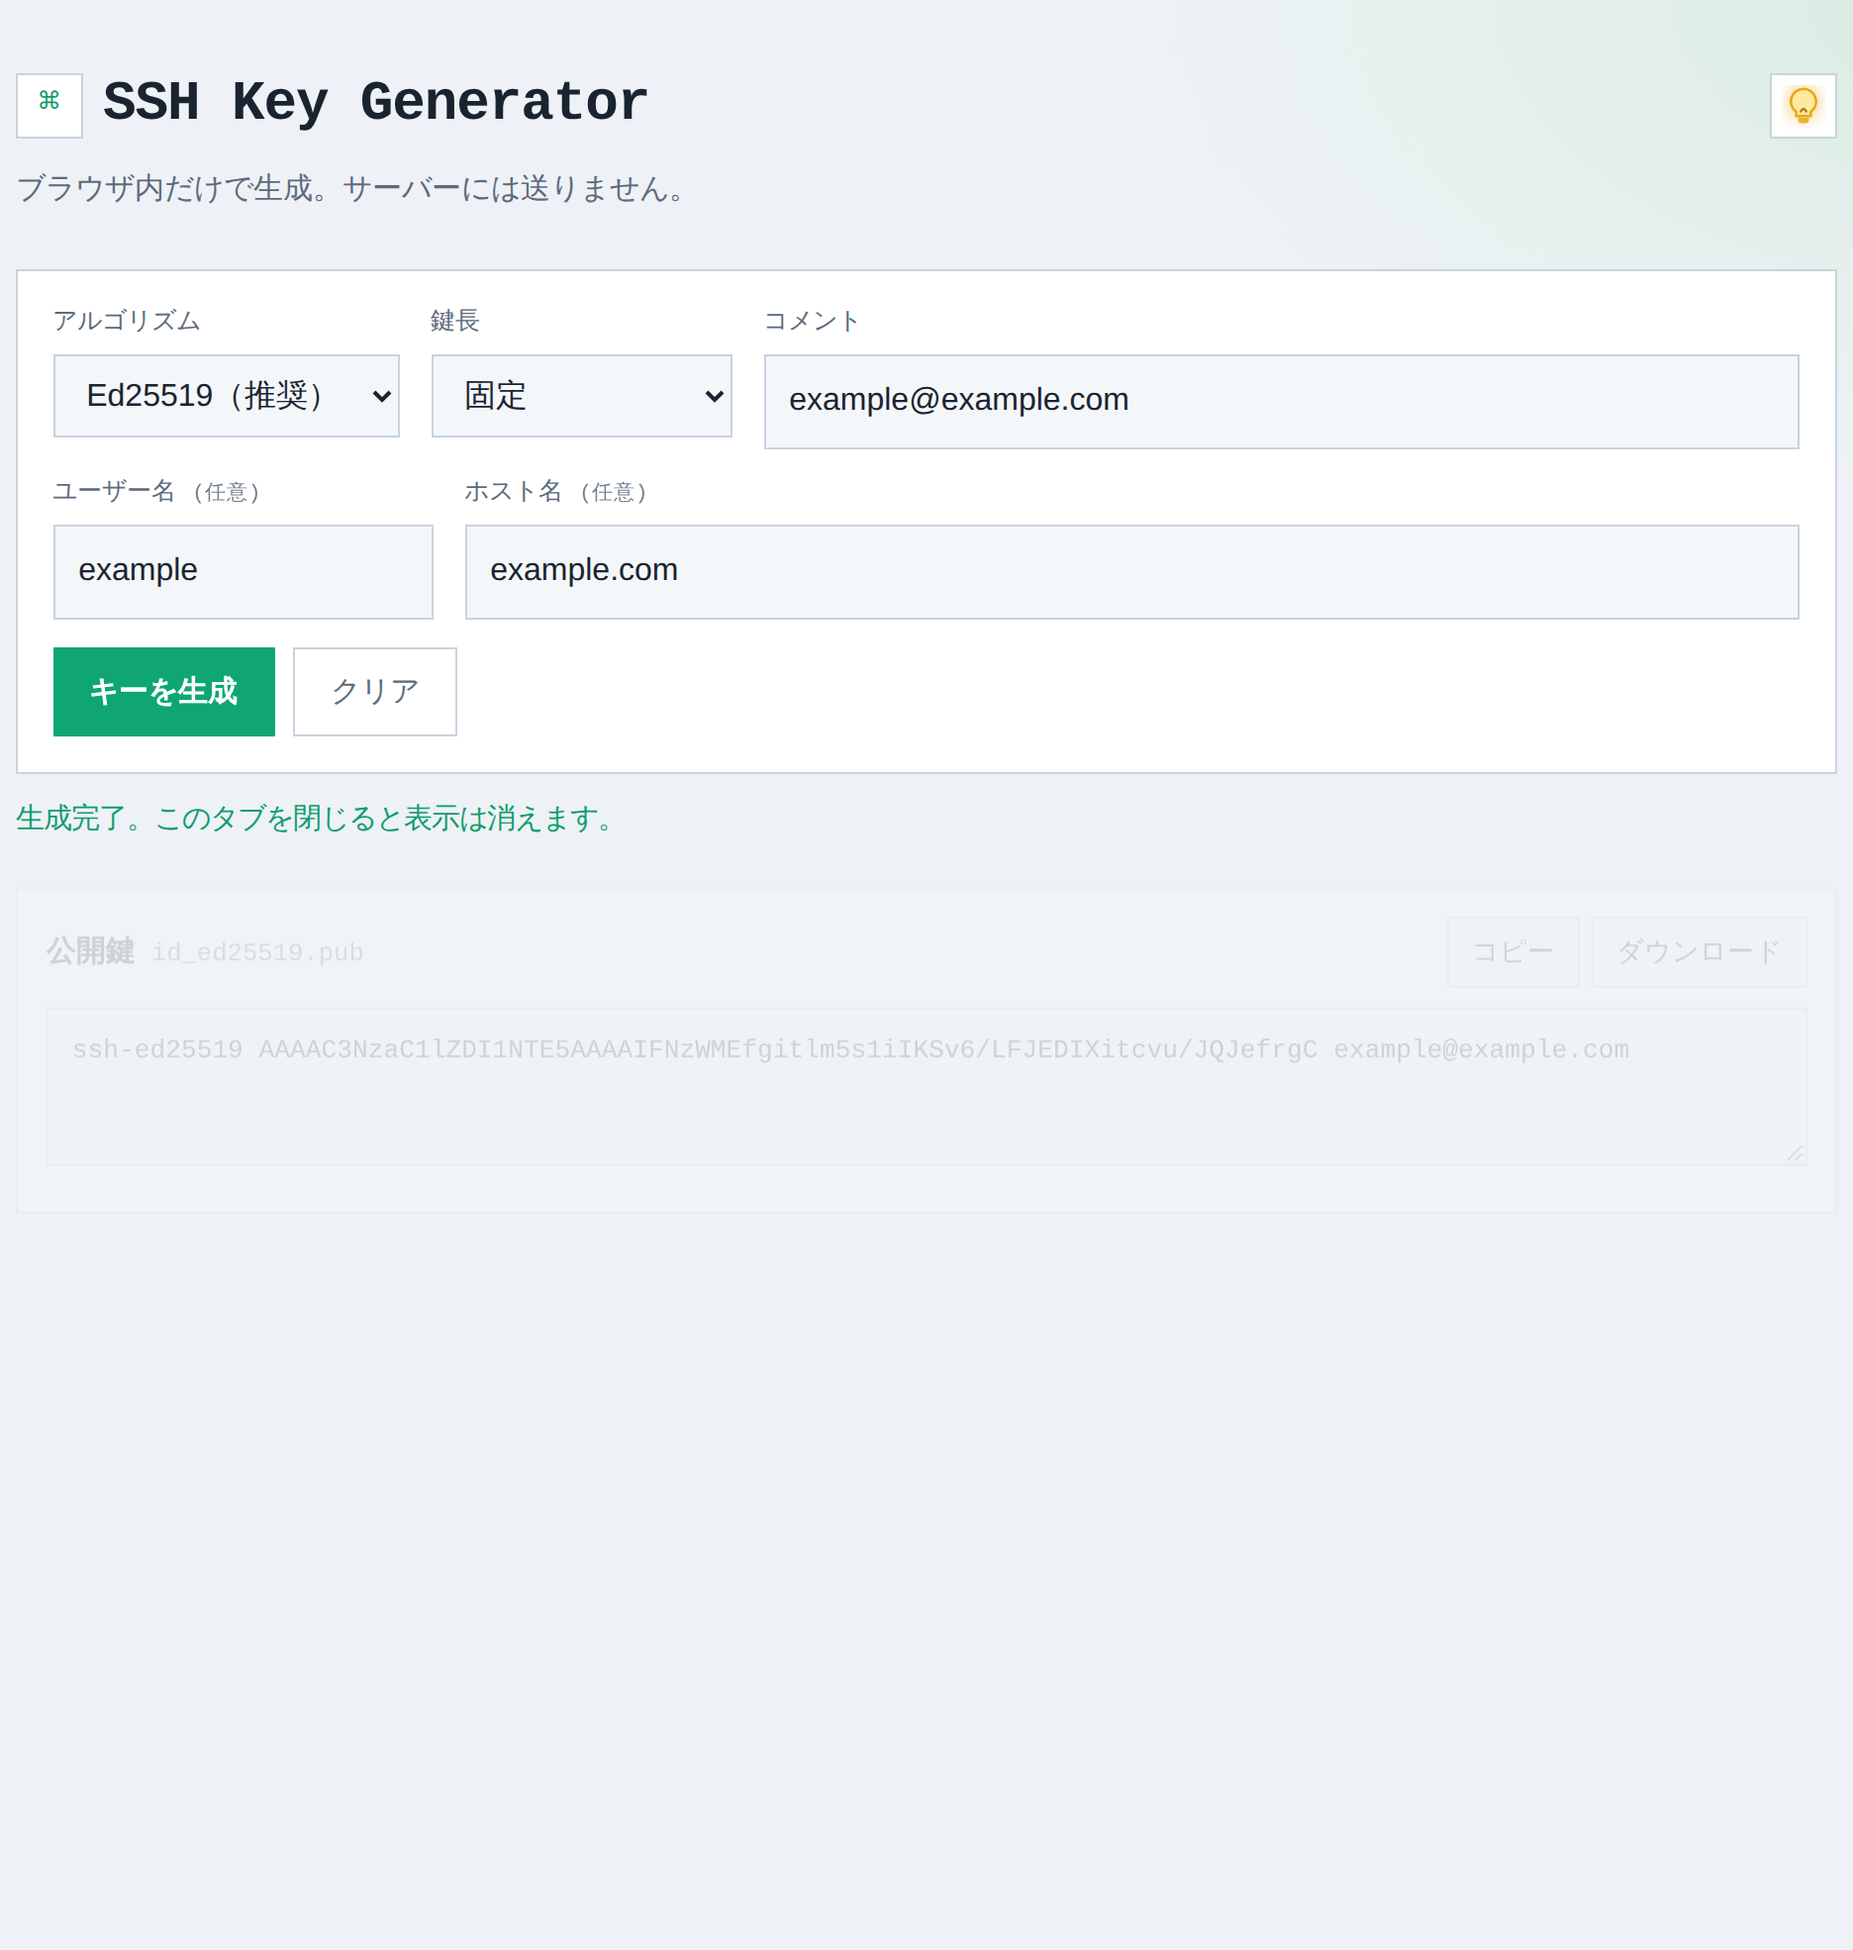
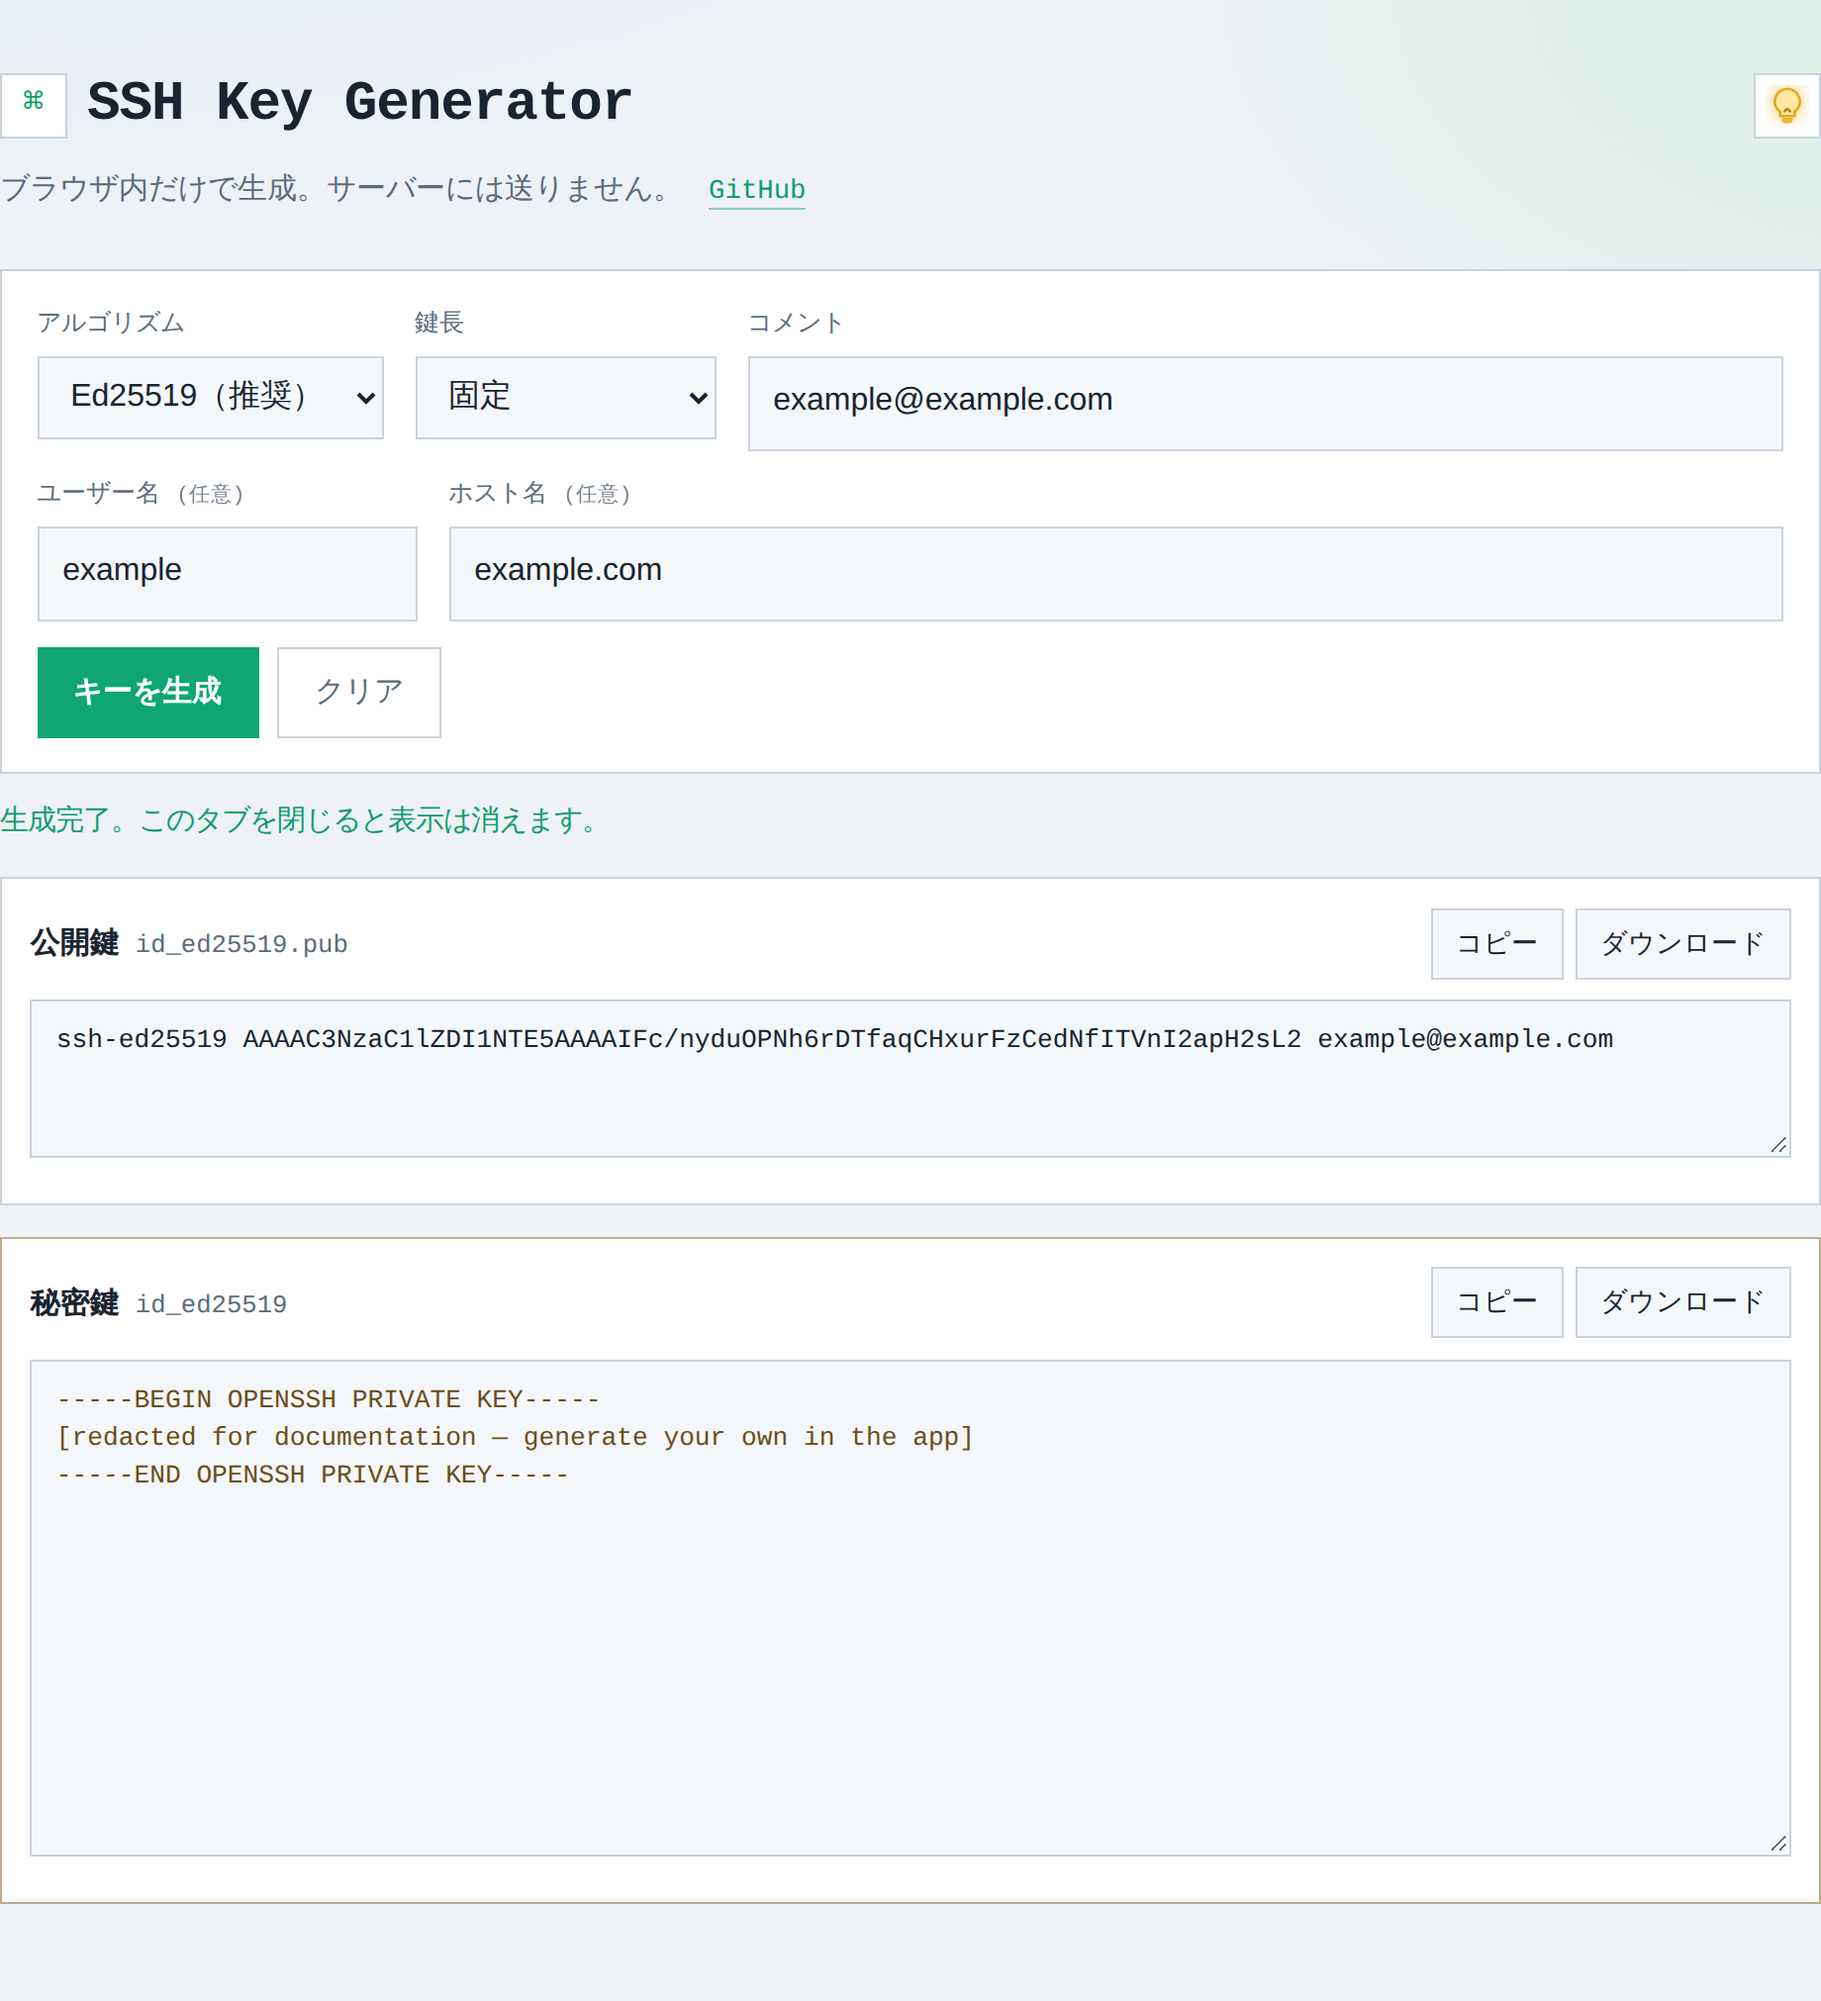
Refresh light-mode screenshot to show post-generate keys.
Also keep the tagline GitHub link on the live UI.

diff --git a/public/styles.css b/public/styles.css
@@ -178,6 +178,24 @@ html[data-theme="light"] .theme-toggle .bulb-filament {
   font-size: 0.95rem;
 }
 
+.tagline .repo-link {
+  margin-left: 0.55rem;
+  color: var(--accent);
+  text-decoration: none;
+  font-family: var(--mono);
+  font-size: 0.9em;
+  border-bottom: 1px solid color-mix(in srgb, var(--accent) 45%, transparent);
+}
+
+.tagline .repo-link:hover {
+  border-bottom-color: var(--accent);
+}
+
+.tagline .repo-link:focus-visible {
+  outline: 2px solid var(--focus);
+  outline-offset: 2px;
+}
+
 .controls {
   display: flex;
   flex-wrap: wrap;

diff --git a/public/index.html b/public/index.html
@@ -34,7 +34,10 @@
           </svg>
         </button>
       </div>
-      <p class="tagline">ブラウザ内だけで生成。サーバーには送りません。</p>
+      <p class="tagline">
+        ブラウザ内だけで生成。サーバーには送りません。
+        <a class="repo-link" href="https://github.com/kuwa2005/SSH-Key-Generator" target="_blank" rel="noopener noreferrer">GitHub</a>
+      </p>
     </header>
 
     <main class="main">
